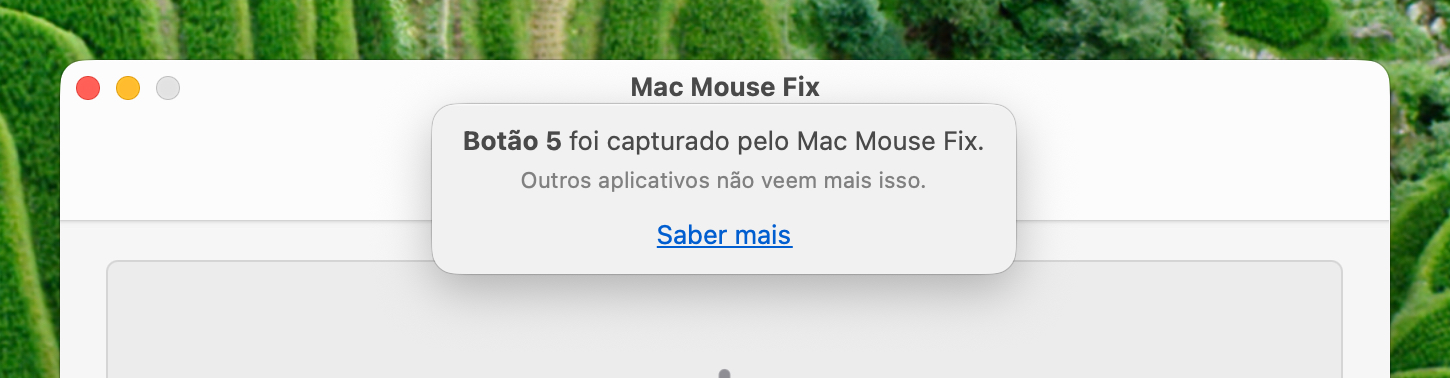
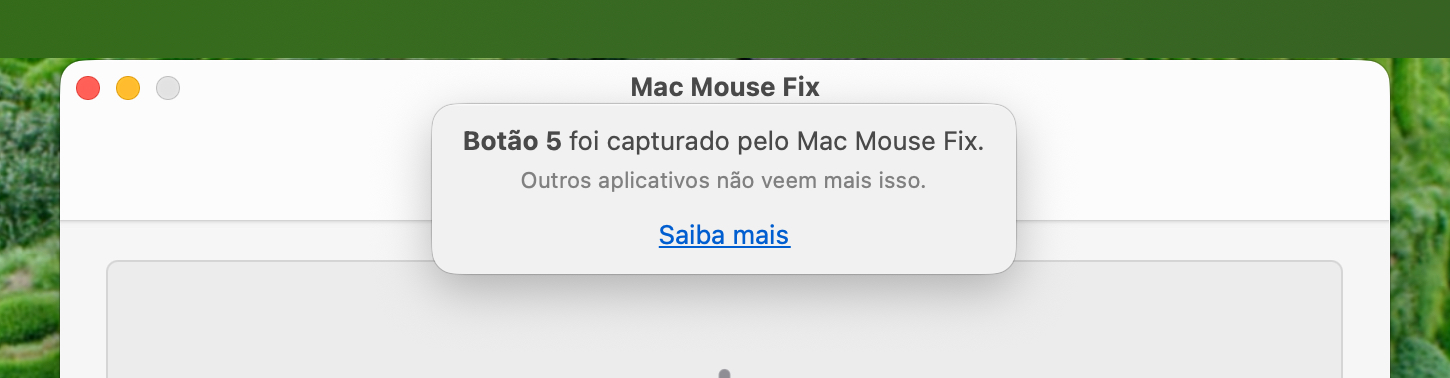
Retook pt-br documentation screenshots. (Not sure anything changed)

Changed region(s): [[0.0, 0.0, 1.0, 1.0], [0.4345, 0.582, 0.5586, 0.6693]]

diff --git a/LocalizationScreenshotTaker/LocalizationScreenshots.swift b/LocalizationScreenshotTaker/LocalizationScreenshots.swift
@@ -501,7 +501,7 @@ final class LocalizationScreenshotClass: XCTestCase {
             var allFilePaths: [String]
         }
         var args = Args(
-            onlyUpdateLocales: ["zh-Hans"],      /// Only update screenshots for these locales. (leave empty to update all)
+            onlyUpdateLocales: ["pt-BR"],      /// Only update screenshots for these locales. (leave empty to update all)
             continueFromLocale: nil,    /// Set in case of interruption, to avoid redoing already-completed localizations. Restart from this locale
             killApp: true,              /// Set false to leave app running for faster iterations.
             allFilePaths: [
@@ -824,6 +824,7 @@ final class LocalizationScreenshotClass: XCTestCase {
             assert(false, """
                 App is running in darkmode (Or the IPC failed). Switch to lightmode before taking screenshots.
                 (Choose System Settings > Appearance > Appearance > Light)
+                (Use Control-Option-Command-G to rerun the test again)
                 """)
         }
         
